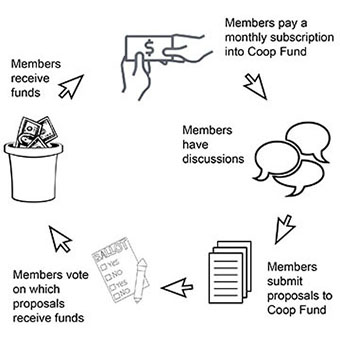
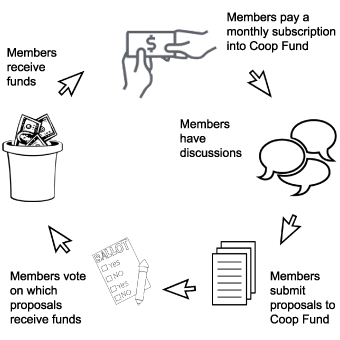
ad xs size graphic

diff --git a/style.css b/style.css
@@ -315,7 +315,9 @@ table { width: 100%; padding-left: 25px; font-family: sans-serif; line-height: 1
 
 .bucket-img { background-image: url("assets/img/bucket.png"); background-size: cover; height: 260px; width: 194px; }
 
-#how-graphic { background-image: url("assets/img/how-it-works-mobile.jpg"); background-size: cover; margin: 50px auto; height: 340px; width: 340px; }
+#how-graphic { background-image: url("assets/img/how-it-works-xs.jpg"); background-size: cover; margin: 50px auto; height: 280px; width: 280px; }
+
+@media screen and (min-width: 400px) { #how-graphic { background-image: url("assets/img/how-it-works-sm.jpg"); height: 340px; width: 340px; } }
 
 @media screen and (min-width: 515px) { #how-graphic { background-image: url("assets/img/how-it-works-md.jpg"); height: 288px; width: 450px; } }
 
@@ -325,6 +327,6 @@ table { width: 100%; padding-left: 25px; font-family: sans-serif; line-height: 1
 
 .underline { text-decoration: underline; }
 
[2 lines of base64/hex data omitted]
 
 /*# sourceMappingURL=style.css.map */

diff --git a/style.min.css b/style.min.css
@@ -97,10 +97,11 @@ table{width:100%;padding-left:25px;font-family:sans-serif;line-height:1.5rem;-we
 #menu:hover{text-decoration:underline;cursor:pointer}
 #book{background-image:url("./assets/img/01-book.jpg")}
 .bucket-img{background-image:url("assets/img/bucket.png");background-size:cover;height:260px;width:194px}
-#how-graphic{background-image:url("assets/img/how-it-works-mobile.jpg");background-size:cover;margin:50px auto;height:340px;width:340px}
+#how-graphic{background-image:url("assets/img/how-it-works-xs.jpg");background-size:cover;margin:50px auto;height:280px;width:280px}
 .glossary p::before{display:block;content:" ";margin-top:-70px;height:70px;visibility:hidden;pointer-events:none}
 .underline{text-decoration:underline}
-@media screen and (min-width:515px){#how-graphic{background-image:url("assets/img/how-it-works-md.jpg");height:288px;width:450px}
+@media screen and (min-width:400px){#how-graphic{background-image:url("assets/img/how-it-works-sm.jpg");height:340px;width:340px}
+}@media screen and (min-width:515px){#how-graphic{background-image:url("assets/img/how-it-works-md.jpg");height:288px;width:450px}
 }@media screen and (min-width:550px){h1{font-size:4rem}
 h3{font-size:1rem}
 }@media screen and (min-width:615px){#how-graphic{background-image:url("assets/img/how-it-works-lg.jpg");height:352px;width:550px}

diff --git a/assets/css/style.scss b/assets/css/style.scss
@@ -407,11 +407,17 @@ table {
 }
 
 #how-graphic {
-	background-image: url('assets/img/how-it-works-mobile.jpg');
+	background-image: url('assets/img/how-it-works-xs.jpg');
 	background-size: cover;
 	margin: 50px auto;
-	height: 340px;
-	width: 340px;
+	height: 280px;
+	width: 280px;
+
+	@media screen and (min-width: 400px) {
+		background-image: url('assets/img/how-it-works-sm.jpg');
+		height: 340px;
+		width: 340px;
+	}
 	
 	@media screen and (min-width: 515px) {
 		background-image: url('assets/img/how-it-works-md.jpg');

diff --git a/header.php b/header.php
@@ -22,7 +22,7 @@
 	<nav>
 		<ul id="nav-mobile">
 			<a href="#home"><li class="title-link">COOP FUND</li></a>
-			<a href="#membership"><li>Join</li></a>
+			<a href="#membership"><li>Join!</li></a>
 			<a href="#glossary"><li>Glossary</li></a>
 			<a href="#links"><li>Links</li></a>
 			<!-- <li id="menu"><span class="sans">Menu</span><i class="fas fa-angle-down"></i></li> -->
@@ -31,7 +31,7 @@
 			<a href="#home"><li class="title-link">COOP FUND</li></a>
 			<li><a href="#what-is-a-coop">What Is A Cooperative?</a></li>
 			<li><a href="#how-it-works">How It Works</a></li>
-			<a href="#membership"><li>Join</li></a>
+			<a href="#membership"><li>Join!</li></a>
 			<a href="#glossary"><li>Glossary</li></a>
 			<a href="#links"><li>Links</li></a>
 		</ul>
@@ -40,7 +40,7 @@
 			<li><a href="#about">About</a></li>
 			<a href="#what-is-a-coop"><li>What Is A Cooperative?</li></a>
 			<a href="#how-it-works"><li>How It Works</li></a>
-			<a href="#membership"><li>Join Us!</li></a>
+			<a href="#membership"><li>Join!</li></a>
 			<a href="#glossary"><li>Glossary</li></a>
 			<a href="#links"><li>Important Links</li></a>
 		</ul>
@@ -50,7 +50,7 @@
 			<li><a href="#about">About</a></li>
 			<a href="#what-is-a-coop"><li>What Is A Cooperative?</li></a>
 			<a href="#how-it-works"><li>How It Works</li></a>
-			<a href="#membership"><li>Join Us!</li></a>
+			<a href="#membership"><li>Join!</li></a>
 			<a href="#glossary"><li>Glossary</li></a>
 			<a href="#links"><li>Important Links</li></a>
 		</ul>
